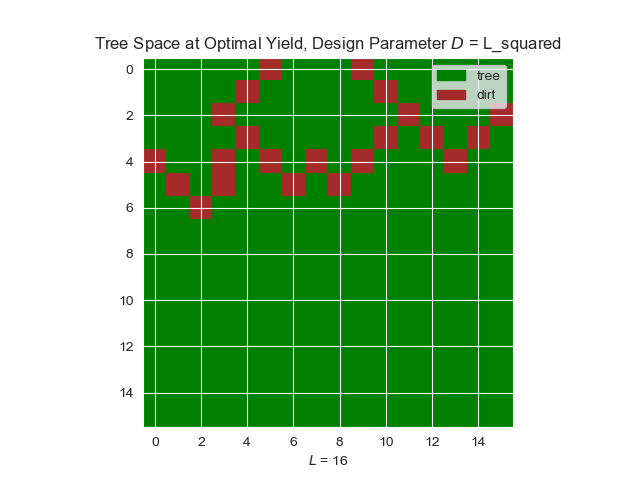
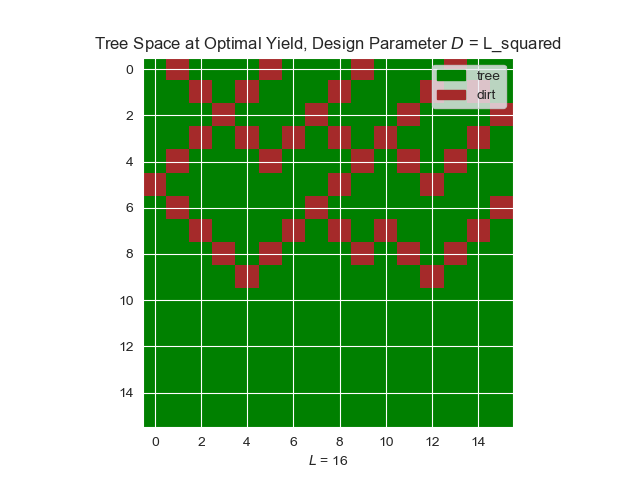
Working on final graphing function.

diff --git a/hw_07_q3.py b/hw_07_q3.py
@@ -32,7 +32,7 @@ import sys
 # ==========================    "KNOB" VARIABLES    ===========================
 # =============================================================================
 L_values = [32] # 2, 4, 16, 32, 64, 128 
-D_values = [1] # [1,2,"L","L_squared"]
+D_values = [2] # [1,2,"L","L_squared"]
 
 # =============================================================================
 # ========================      FUNCTIONS     =================================
@@ -50,17 +50,17 @@ def main(L_values, D_values):
     print("--- NOW RUNNING SIMULATIONS ---")
 
     # Call to run animation functionality.
-    display = False
+    display = True
     logg = True 
 
     for D in D_values:
         yields2trees_added_LIST = [] # Will reset this for each D value. 
 
         for L in L_values:
-            trees_added2lattice, average_yield2trees_added = simulator(D, L)
+            trees_added2lattice, average_yield2trees_added, density2lattice = simulator(D, L)
 
             # Running the animation for this simulation. 
-            run_animation(display, trees_added2lattice)
+            run_animation(display, trees_added2lattice, L, D)
 
             # We are going to want to analyze the specific peak yield state. 
             peak_yield = max(average_yield2trees_added.keys())
@@ -77,6 +77,8 @@ def main(L_values, D_values):
             yields2trees_added_LIST.append(average_yield2trees_added) 
         # Now to plot the peak yield curves for this value of D.
         yieldBYdensity_grapher(display, D, yields2trees_added_LIST)
+        # Finally we plot component size frequencies across densities. 
+        # component_sizeBYdensity_grapher(display, D, density2lattice)
 
 def simulator(D, L):
     """
@@ -88,7 +90,9 @@ def simulator(D, L):
     - Function Output: 
         Function Outputs the following information for graphing purposes. 
             - trees_added2lattice: Dictionary of trees added (int) to lattice (numpy matrix). 
-            - average_yield2trees_added: Dictionary of average yield (float) to trees added here (int). 
+            - average_yield2trees_added: Dictionary of average yield (float) to trees added here (int).
+            - density2lattice: Dictionary of density of forest (float) to the lattice only for 
+              specified densities to save for later plotting. 
     """
     # Addressing any issues from type(L) == String.
     if D == "L":
@@ -99,6 +103,7 @@ def simulator(D, L):
     # We start this process by defining data structures we are going to be utilizing. 
     trees_added2lattice = {} # For holding data to animate.
     average_yield2trees_added = {} # For plotting max yield data. 
+    density2lattice = {} # For plotting.
     trees_added = 0
 
     # Initializing both the spark and the empty simulation lattice (the latter being that we look to fill). 
@@ -126,11 +131,14 @@ def simulator(D, L):
         trees_added += 1 # Incrementing this here since yield will need to be computed - 
         # - (used for density calculation) to select which tree to add.
 
+        density = (trees_added/(L**2)) # It is important to note this was done after appending a tree - 
+        # to our trees_added counter. 
+
         for test_tree_index in test_tree_indeces:                                
             # Computing and saving our average forest fire size for this test tree. 
             average_forest_fire_size = cost_calc(spark_probability_lattice, \
                                                 simulation_lattice, test_tree_index)
-            density = (trees_added/(L**2))
+        
             average_yield = density - (average_forest_fire_size/(L**2)) # We want cost in terms of density.    
             average_yield2index[average_yield] = test_tree_index
 
@@ -140,6 +148,9 @@ def simulator(D, L):
         
         # Removing the chosen index from our "empty" index list and adding it to the simulation lattice.             
         simulation_lattice[chosen_index[0], chosen_index[1]] = 1
+
+        if (density % .25) == 0:
+                density2lattice[density] = simulation_lattice.copy() # For graphing later. 
 
         # Since the test tree index has now been determined, we remove the - 
         # - index from the array of empty indeces. 
@@ -152,7 +163,7 @@ def simulator(D, L):
         trees_added2lattice[trees_added] = simulation_lattice.copy() # For animation.
         average_yield2trees_added[highest_yield] = trees_added # For plotting peak yield.
 
-    return trees_added2lattice, average_yield2trees_added
+    return trees_added2lattice, average_yield2trees_added, density2lattice
 
 def spark_probability_matrix(index_list):
     """
@@ -277,7 +288,7 @@ def fix_chosen_index(chosen_index):
 
     return fixed_chosen_index
 
-def run_animation(display, trees_added2lattice):
+def run_animation(display, trees_added2lattice, L, D):
     """
     - Function Description:
        Function runs the animate function nested within (to utilize the trees added to lattice matrix 
@@ -317,9 +328,11 @@ def run_animation(display, trees_added2lattice):
     fig = plt.figure()
     frame_count = len(trees_added2lattice.keys())
     ani = animation.FuncAnimation(fig, animate, frames=frame_count, repeat=True, interval=1)
-    
+    ani.save('animaz.gif', dpi=80, writer='imagemagick')
+
     if display == True:
         plt.show()
+    
 
 def lattice_frame_grapher(display, peak_yield_lattice, D, L):
     """
@@ -473,6 +486,37 @@ def component_frequency_grapher(display, peak_yield_lattice, D, L, logg):
         plt.savefig("component_frequency_log{D}.png".format(D=D))
         if display == True:
             plt.show()
+
+# def component_sizeBYdensity_grapher(display, D, density2lattice):
+#     """
+#     fdsa
+#     """
+#     # Plotting the yield curves for each value of D, and identifying (approximately) the - 
+#     # - peak yield and density for which peak yield occurs on each,
+#     Q3pd = plt.figure()
+#     axes = Q3pd.add_subplot(111)  
+
+#     x = list(density2lattice.keys()) # Densities.
+#     y = list(density2lattice.values())
+
+    # axes.set_title("")
+    # axes.set_xlabel("Event Size $c$") 
+    # axes.set_ylabel("Cumulative Probability $F(c)$") 
+
+    # green_patch = mpatches.Patch(color='green', label="$L=2$")
+    # yellow_patch = mpatches.Patch(color='yellow', label="$L=4$")
+    # orange_patch = mpatches.Patch(color='orange', label="$L=8$")
+    # red_patch = mpatches.Patch(color='red', label="$L=16$")
+    # purple_patch = mpatches.Patch(color='purple', label="$L=32$")
+    # black_patch = mpatches.Patch(color='black', label="$L=64$")
+
+    # plt.legend(handles=[green_patch, yellow_patch, orange_patch, red_patch, black_patch, purple_patch])
+    # axes.plot(x, y, linestyle='-')
+
+    # plt.savefig("component_sizeBYdensity_D{D}.png".format(D=D))
+
+    # if display == True:
+    #     plt.show()
 
 # =============================================================================
 # ========================      MAIN LOGIC CALL        ========================

diff --git a/README.md b/README.md
@@ -1,1 +1,5 @@
-# optimized_forest
+# Optimizing Forest Yield
+
+*Demonstrating *
+
+![]()
